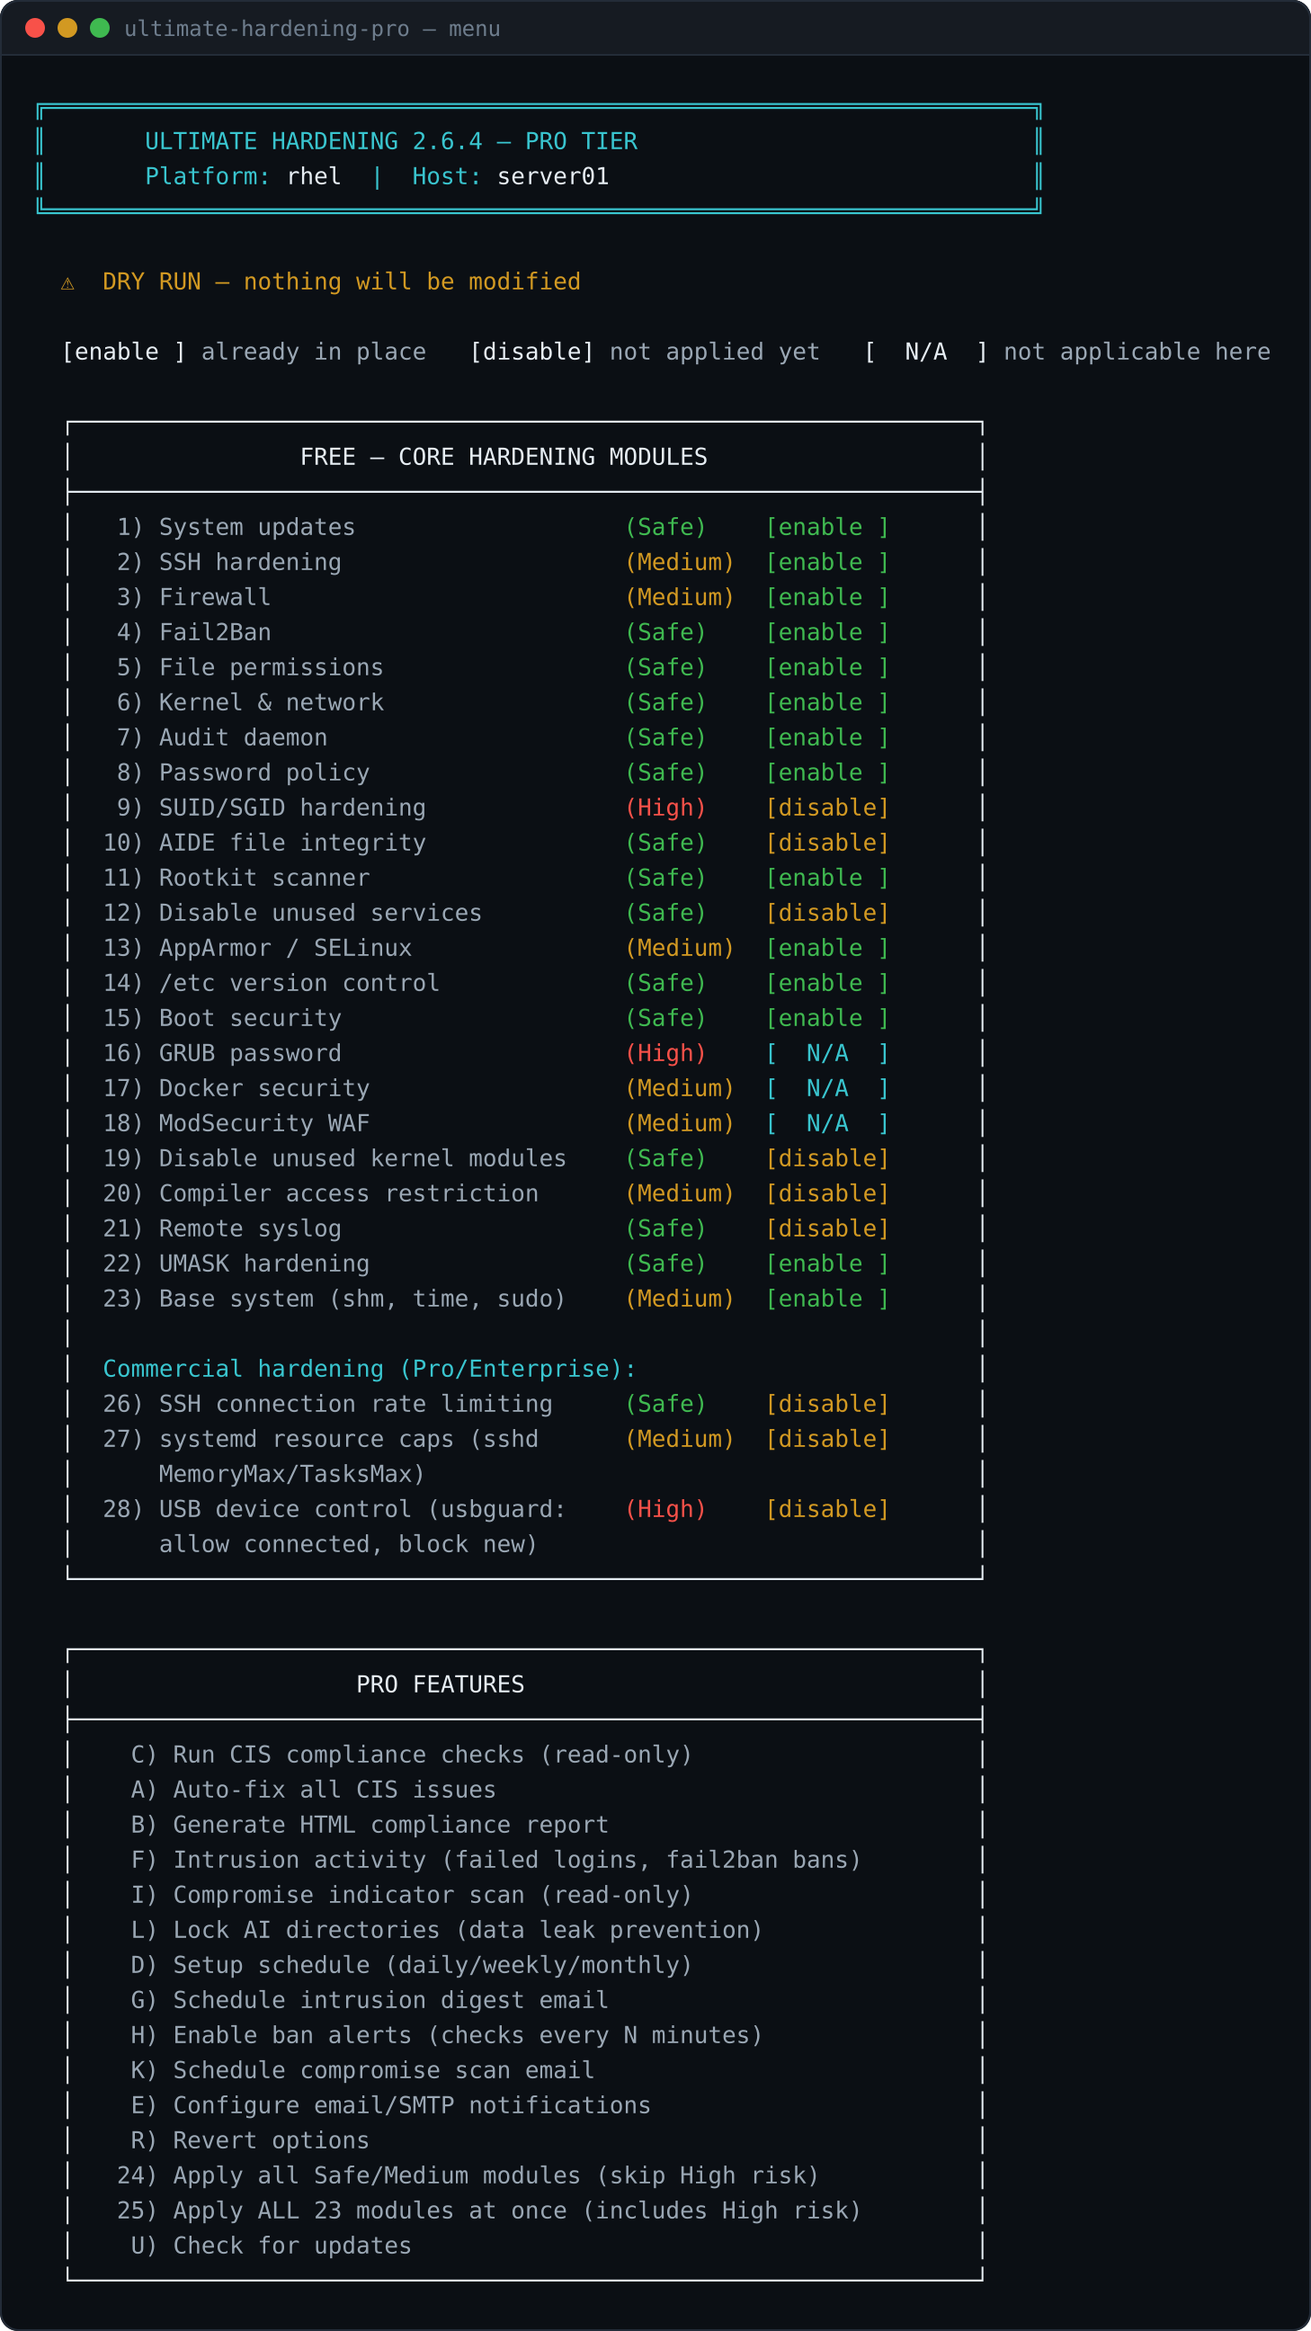
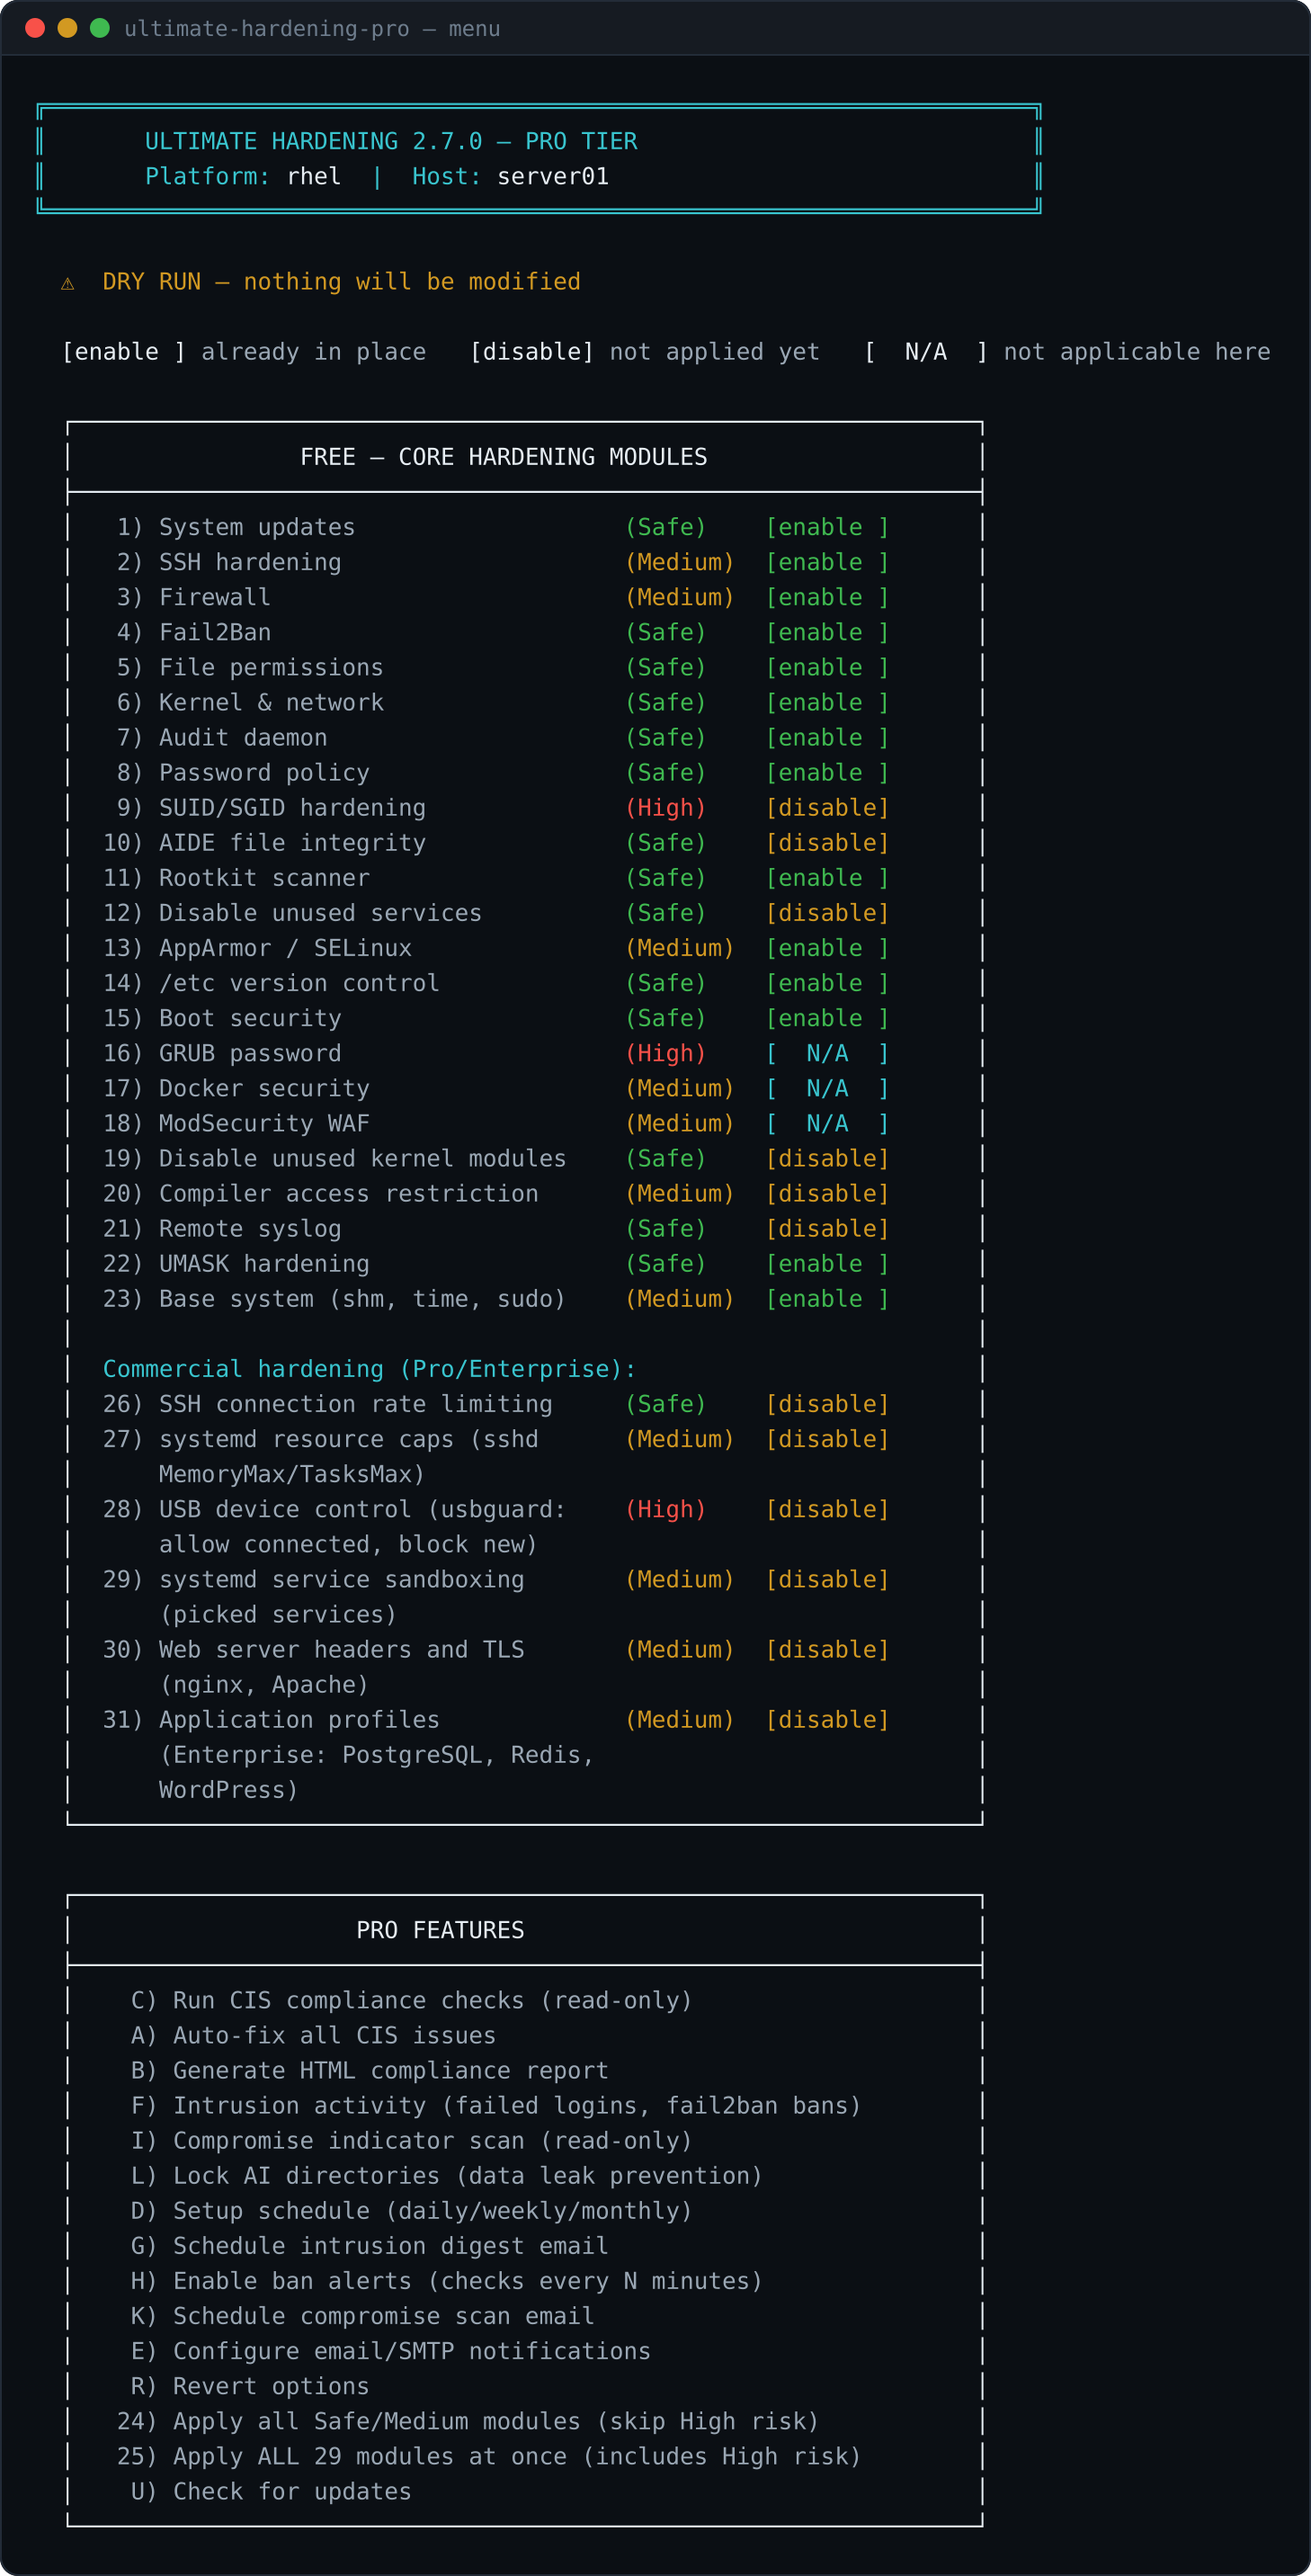
Regenerate the Pro menu image for 2.7.0
docs/images/menu-pro.png is rebuilt from the code by
docs/build-terminals.sh with the commercial checkout alongside. It now
shows 2.7.0, module 23 (Base system) in the free panel, and paid
modules 29 to 31 (systemd service sandboxing, web server headers and
TLS, application profiles) in the commercial panel. The image is taller,
so the site's <img> height goes from 1296 to 1432 to match.

diff --git a/docs/index.html b/docs/index.html
@@ -521,7 +521,7 @@
 
     <figure class="shot shot-wide">
       <button type="button" data-full="images/menu-pro.png" aria-label="Enlarge: the Pro tier menu">
-        <img src="images/menu-pro.png" alt="The Pro tier menu: the same 23 free core hardening modules in one panel, and a second panel of Pro-only features including CIS auto-fix, HTML compliance reports, AI directory locking, scheduling and email notifications." loading="lazy" width="729" height="1296">
+        <img src="images/menu-pro.png" alt="The Pro tier menu: the same 23 free core hardening modules in one panel, and a second panel of Pro-only features including CIS auto-fix, HTML compliance reports, AI directory locking, scheduling and email notifications." loading="lazy" width="729" height="1432">
       </button>
       <figcaption><b>What the paid tiers add</b> The Pro menu keeps all 23 free modules and adds a second panel. Nothing is taken out of the free tier.</figcaption>
     </figure>
